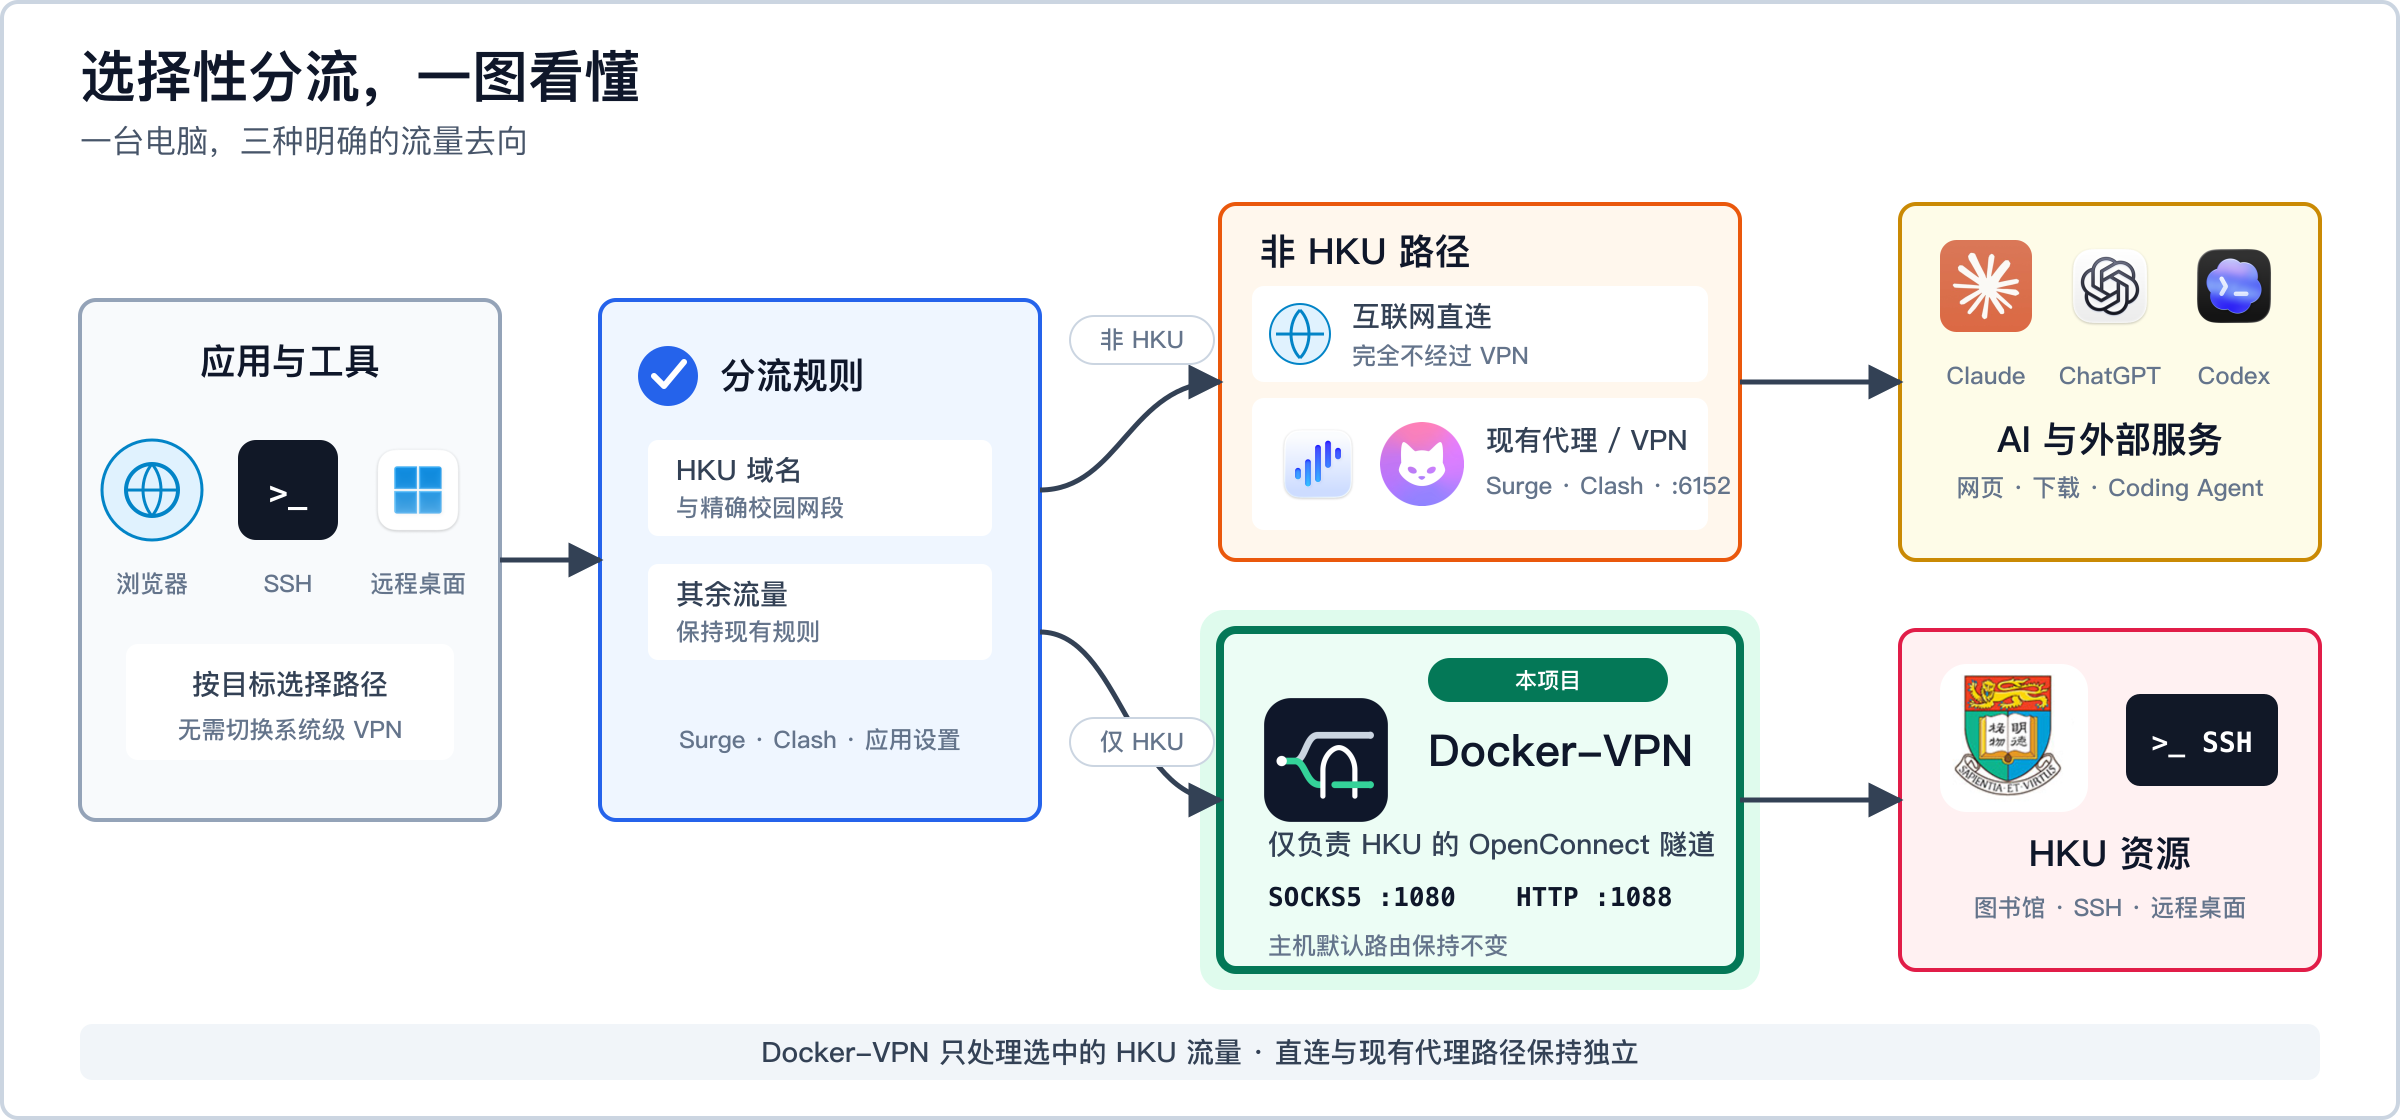
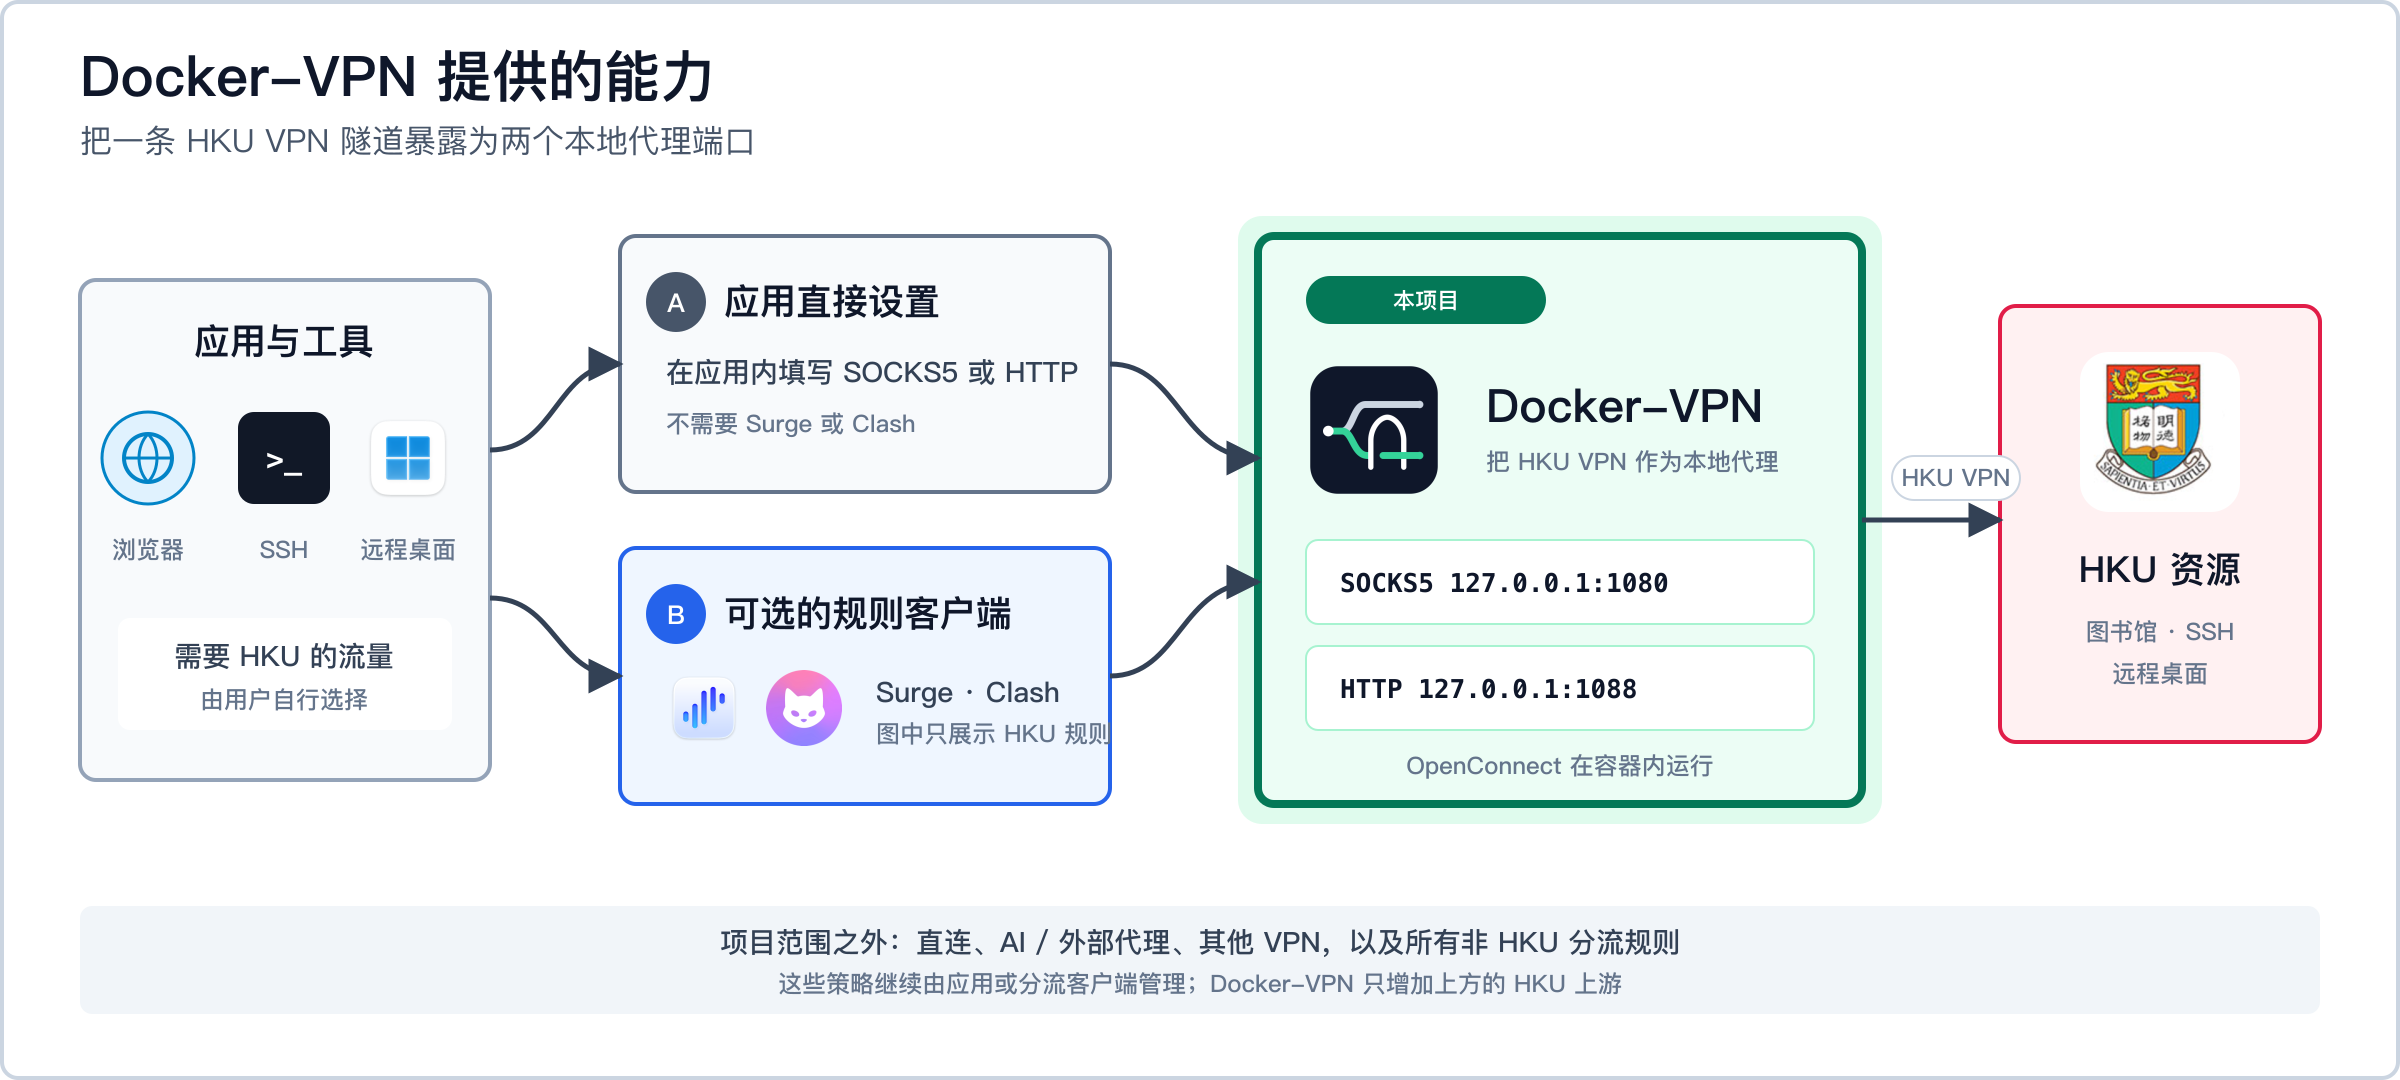
docs: focus routing diagram on HKU proxy

diff --git a/Readme.md b/Readme.md
@@ -11,14 +11,20 @@ or a remote desktop while other applications must stay on your normal network
 or an existing proxy service.
 
 **The solution:** Docker-VPN runs OpenConnect in an isolated container and
-exports the HKU tunnel on loopback-only SOCKS5 and HTTP ports. Your browser,
-terminal, Surge/Clash rules, SSH configuration, or remote-desktop routing decides
-what uses HKU. The host's default route stays unchanged.
+exports the HKU tunnel on loopback-only SOCKS5 and HTTP ports. Point an
+application directly at these ports, or reference them from an optional routing
+client such as Surge or Clash. Docker-VPN does not decide how any non-HKU
+traffic is routed, and the host's default route stays unchanged.
 
 > **Quick start:** run `hkuvpn`, enter the current six-digit MFA code, then use
 > SOCKS5 `127.0.0.1:1080` or HTTP `127.0.0.1:1088`.
 
-![Docker-VPN position within direct, existing proxy, and HKU-only network paths](docs/images/split-routing-en.png)
+![Applications can use the local Docker-VPN HKU proxy directly or through an optional rules client](docs/images/split-routing-en.png)
+
+Surge is the recommended and best-documented rules-client example, not a
+dependency. Direct application, SSH, and browser proxy settings work without
+it. Existing direct, AI proxy, and other VPN policies remain the user's own
+routing configuration.
 
 The default listeners are:
 
@@ -37,7 +43,7 @@ The default listeners are:
 - [Install](#install)
 - [Daily Commands](#daily-commands)
 - [Use the Local Proxies](#use-the-local-proxies)
-- [Surge Split Routing](#surge-split-routing)
+- [Optional: Surge Split-Routing Example](#optional-surge-split-routing-example)
 - [SSH and Remote Desktop Through HKU](#ssh-and-remote-desktop-through-hku)
 - [Give a Campus Computer the Local Proxy](#give-a-campus-computer-the-local-proxy)
 - [Advanced Reliability](#advanced-reliability)
@@ -50,8 +56,8 @@ The default listeners are:
 
 - Open HKU websites and library resources without sending unrelated traffic
   through the university VPN.
-- Keep an existing Surge, Clash, sing-box, or other proxy service active while
-  HKU traffic follows a separate route.
+- Use the local HKU proxy directly from an application, or add it as one upstream
+  in Surge, Clash, sing-box, or another rules client.
 - Reach campus SSH and remote-desktop hosts through the local HKU proxy.
 - Give a coding agent on a campus computer access to the proxy running on your
   client through a loopback-only SSH reverse forward.
@@ -69,18 +75,18 @@ your normal Internet proxy, or bypass an organization's acceptable-use policy.
 |---|---|
 | Open HKU library or intranet sites locally | Send only HKU domains to `1080` or `1088` |
 | Reach a campus SSH or remote-desktop host | Route its exact campus IP/subnet through HKU |
-| Use ChatGPT, Claude, Codex, or Copilot locally | Keep them on the existing external proxy group |
+| Keep non-HKU traffic on any direct, proxy, or VPN route | Leave those policies unchanged; Docker-VPN only adds the HKU upstream |
 | Run a coding agent on a campus computer | Reverse-forward the local proxy to remote loopback port `8152` |
 | Both computers are in Hong Kong and the subscription accepts mainland ingress only | Use a supported ingress or move the proxy client to a reachable mainland host; reverse SSH alone cannot change the ingress location |
 
 ## How It Works
 
-1. The browser, terminal, SSH configuration, or a rule-based proxy client
-   decides whether a destination needs HKU.
+1. A browser, terminal, or SSH configuration can select the HKU proxy directly.
+   An optional rules client can make the same choice by destination.
 2. Selected traffic enters the loopback SOCKS5 or HTTP listener and reaches the
    `vpn-hku` container.
 3. OpenConnect carries that traffic through the HKU AnyConnect tunnel. All
-   other traffic keeps its original direct or proxy route.
+   non-HKU routing remains outside this project and keeps its existing policy.
 
 Cisco AnyConnect is the server protocol in this design. The official Cisco
 desktop client is not started for this connection; OpenConnect runs inside the
@@ -257,16 +263,25 @@ HKU_SOCKS_PORT=11080
 HKU_HTTP_PORT=11088
 ```
 
-## Surge Split Routing
+## Optional: Surge Split-Routing Example
 
-Merge [examples/surge.conf](examples/surge.conf) into the existing profile. The
-important order is:
+You do not need Surge or another rules client to use Docker-VPN. If an
+application supports SOCKS5 or HTTP proxies, it can use `1080` or `1088`
+directly. For users who already want destination-based rules, Surge is the
+recommended documented integration; the same upstream model also works in
+other compatible clients.
+
+Surge itself may route different destinations to `DIRECT`, an external proxy or
+VPN, the local HKU proxy, or any number of other policies. This example defines
+only the HKU-related upstream and rules. Keep every unrelated rule in your
+existing profile, and merge [examples/surge.conf](examples/surge.conf) rather
+than replacing the whole profile. The important order is:
 
 1. Route the VPN control endpoint outside the HKU local proxy. Otherwise the
    connection tries to enter its own tunnel before that tunnel exists.
 2. Route only exact campus subnets and HKU services to the `HKU` group.
-3. Keep AI, general external traffic, and the final rule on the existing proxy
-   path.
+3. Leave every non-HKU rule and the final rule under the existing profile's
+   policy.
 
 Minimal fragment:
 

diff --git a/README.zh-CN.md b/README.zh-CN.md
@@ -6,11 +6,13 @@
 
 **要解决的问题：** 使用系统级 Cisco AnyConnect 时，网络路由会由 VPN 配置接管。当你一边需要访问 HKU Library、校园 SSH 或远程桌面，一边又需要让其他应用继续使用普通网络或现有代理服务时，频繁开关全局 VPN 很不方便，也容易产生路由冲突。
 
-**Docker-VPN 的做法：** 在隔离容器内运行 OpenConnect，并把 HKU 隧道导出为仅本机可访问的 SOCKS5 和 HTTP 端口。浏览器、命令行、Surge/Clash 规则、SSH 配置或远程桌面目标规则决定哪些流量进入 HKU；主机默认路由保持不变。
+**Docker-VPN 的做法：** 在隔离容器内运行 OpenConnect，并把 HKU 隧道导出为仅本机可访问的 SOCKS5 和 HTTP 端口。应用可以直接使用这些端口，也可以由 Surge、Clash 等可选的分流客户端引用。Docker-VPN 不决定任何非 HKU 流量的去向，主机默认路由保持不变。
 
 > **快速使用：** 运行 `hkuvpn`，输入 Authenticator 当前六位验证码，然后使用 SOCKS5 `127.0.0.1:1080` 或 HTTP `127.0.0.1:1088`。
 
-![Docker-VPN 在直连、现有代理与 HKU 专用路径中的位置](docs/images/split-routing-zh.png)
+![应用可以直接使用 Docker-VPN 的本地 HKU 代理，也可以通过可选的规则客户端使用](docs/images/split-routing-zh.png)
+
+Surge 是本文推荐且说明最完整的分流示例，但不是依赖。应用、SSH 或浏览器可以不经过 Surge，直接设置本地代理；原有的互联网直连、AI 代理和其他 VPN 策略仍由用户自己的分流配置决定。
 
 默认监听端口：
 
@@ -29,7 +31,7 @@
 - [安装](#安装)
 - [日常命令](#日常命令)
 - [使用本地 HKU 代理](#使用本地-hku-代理)
-- [Surge 分流规则](#surge-分流规则)
+- [可选：Surge 分流示例](#可选surge-分流示例)
 - [经 HKU 使用 SSH 和远程桌面](#经-hku-使用-ssh-和远程桌面)
 - [把本机代理提供给学校电脑](#把本机代理提供给学校电脑)
 - [高级稳定性配置](#高级稳定性配置)
@@ -41,7 +43,7 @@
 ## 可以用它做什么
 
 - 访问 HKU 网站和图书馆资源，同时避免无关流量进入学校 VPN。
-- 保持 Surge、Clash、sing-box 或其他现有代理服务在线，让 HKU 流量使用独立路径。
+- 由应用直接使用本地 HKU 代理，或把它作为一个上游加入 Surge、Clash、sing-box 等分流客户端。
 - 通过本地 HKU 代理连接校内 SSH 和远程桌面主机。
 - 通过只绑定回环地址的 SSH Remote Forward，把客户端代理提供给学校电脑上的 Coding Agent。
 - 在 Colima、Docker Desktop 或原生 Docker 环境中，通过 Zsh、Bash 或 Fish 使用同一启动器。
@@ -55,15 +57,15 @@
 |---|---|
 | 本机访问 HKU Library 或校内网站 | 只把 HKU 域名发到 `1080` 或 `1088` |
 | SSH 或远程桌面连接校内电脑 | 只把目标校园 IP/网段发到 HKU |
-| 本机使用 ChatGPT、Claude、Codex、Copilot | 继续使用原有外部代理组，不经过 HKU |
+| 让非 HKU 流量保持任意直连、代理或 VPN 路径 | 保持原有策略不变；Docker-VPN 只增加 HKU 上游 |
 | Coding Agent 运行在学校电脑 | 把本机代理反向转发到远端回环端口 `8152` |
 | 两台电脑都在香港，而订阅只接受大陆入口 | 更换支持的入口，或把代理客户端放到可达的大陆主机；反向 SSH 本身不会改变入口位置 |
 
 ## 工作原理
 
-1. 浏览器、命令行、SSH 配置或规则代理客户端先判断目标是否需要 HKU。
+1. 浏览器、命令行或 SSH 配置可以直接选择 HKU 代理；可选的分流客户端也可以按目标作出相同选择。
 2. 被选中的流量进入本机 SOCKS5 或 HTTP 监听端口，再到达 `vpn-hku` 容器。
-3. OpenConnect 把这些流量送入 HKU AnyConnect 隧道；其余流量继续使用原来的直连或代理路径。
+3. OpenConnect 把这些流量送入 HKU AnyConnect 隧道；所有非 HKU 分流均在本项目范围之外，继续遵循原有策略。
 
 这里的 Cisco AnyConnect 指服务端协议。HKU 连接并不启动 Cisco 官方桌面客户端，而是由容器内的 OpenConnect 建立，因此不会修改主机的全局默认路由。
 
@@ -225,13 +227,15 @@ HKU_SOCKS_PORT=11080
 HKU_HTTP_PORT=11088
 ```
 
-## Surge 分流规则
+## 可选：Surge 分流示例
 
-把 [examples/surge.conf](examples/surge.conf) 合并到现有配置，不要用示例覆盖整份 Surge 配置。关键顺序如下：
+使用 Docker-VPN 并不需要 Surge 或其他分流客户端。应用只要支持 SOCKS5 或 HTTP 代理，就可以直接使用 `1080` 或 `1088`。如果用户已经需要按目标分流，Surge 是本文推荐且说明最完整的接入方式；其他兼容客户端也可以使用同样的本地上游。
+
+Surge 本身可以把不同目标发到 `DIRECT`、外部代理或 VPN、本地 HKU 代理，以及任意其他策略。本示例只定义 HKU 相关的上游和规则；所有无关规则继续保留在用户自己的配置中。请把 [examples/surge.conf](examples/surge.conf) 合并到现有配置，不要用示例覆盖整份 Surge 配置。关键顺序如下：
 
 1. HKU VPN 控制入口必须走 HKU 本地代理之外的路径，否则连接会在隧道尚未建立时进入自身隧道。
 2. 只有明确的校园网段和 HKU 服务进入 `HKU` 组。
-3. AI、普通外部流量和最终规则继续走原有代理组。
+3. 所有非 HKU 规则和最终规则继续遵循现有配置。
 
 最小示例：
 